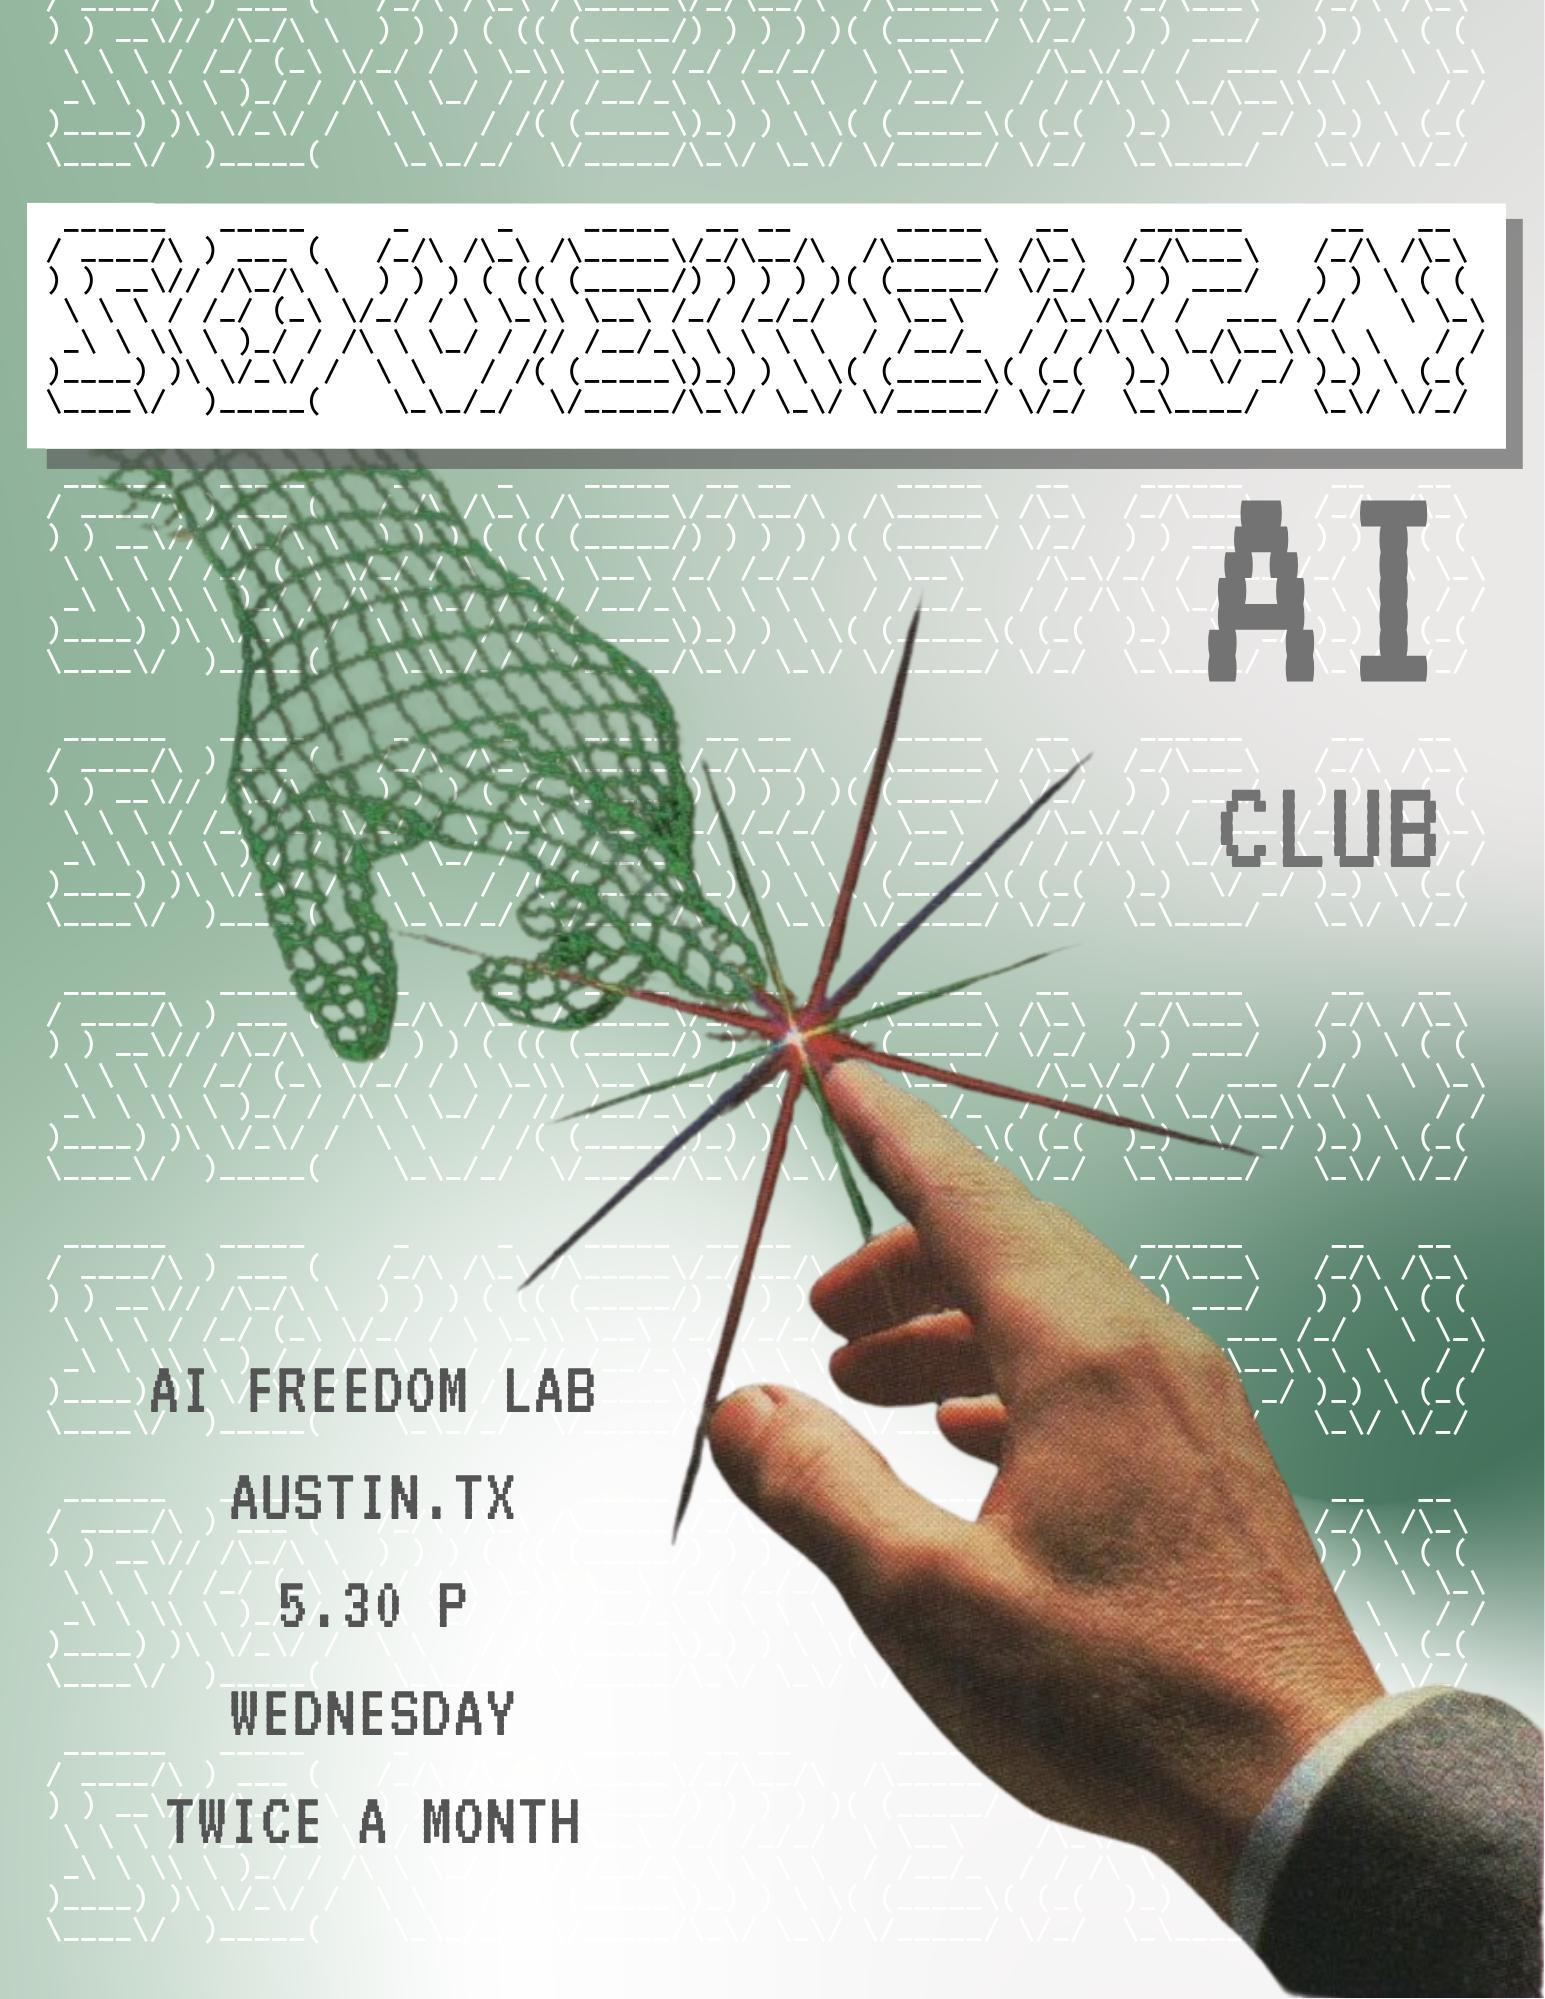
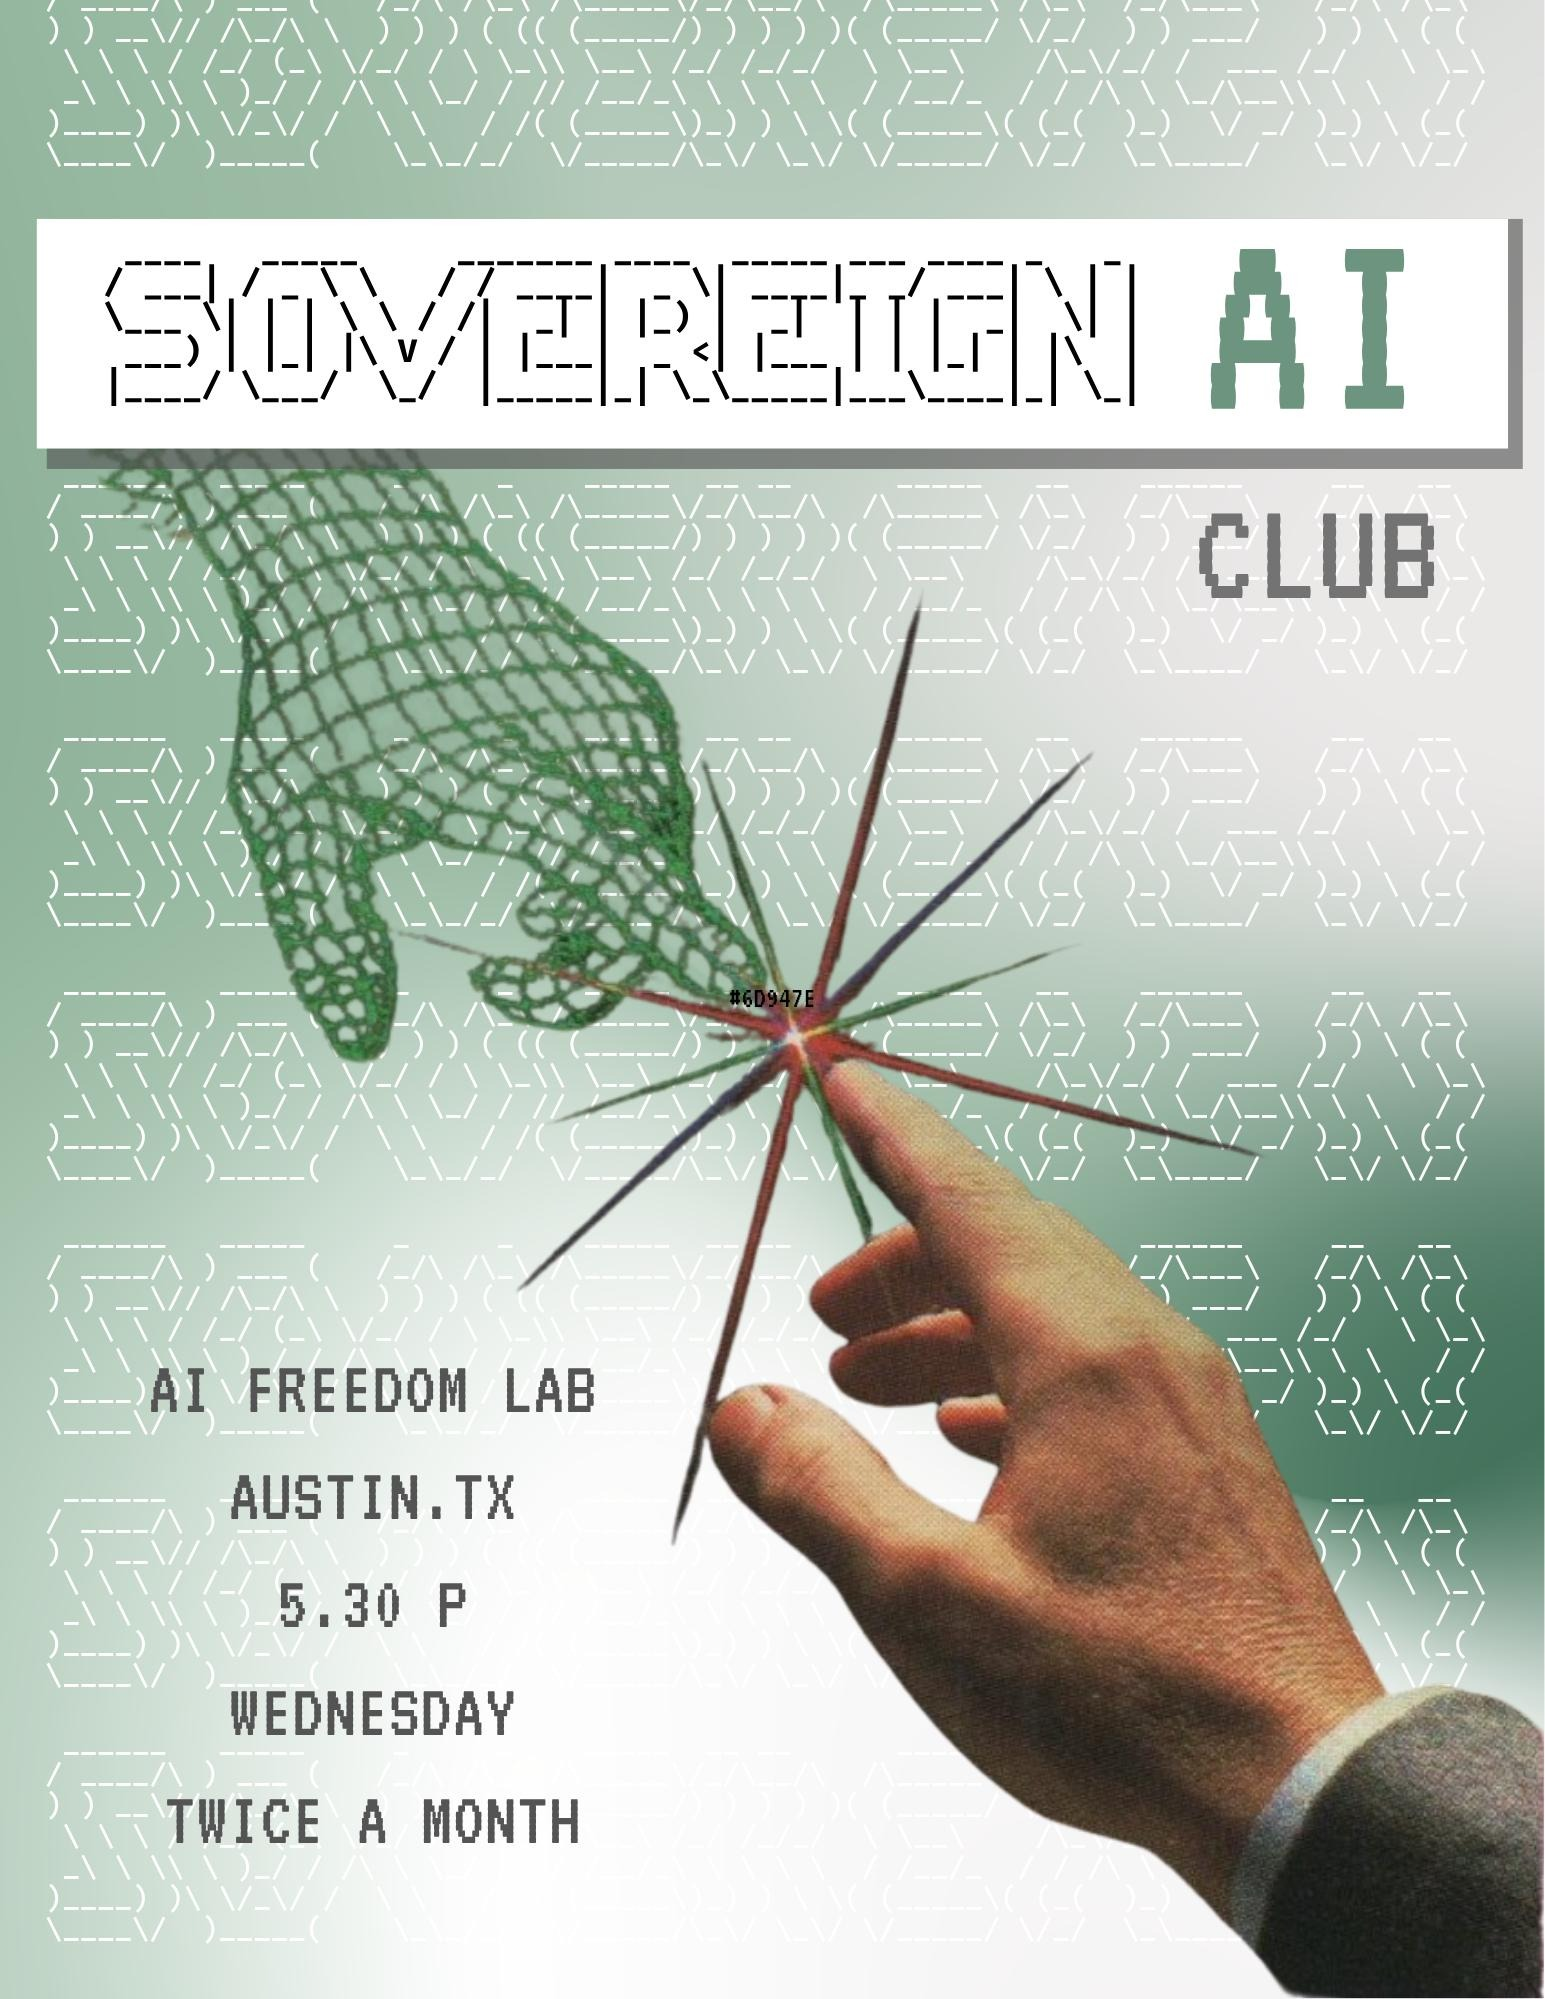
Update poster across homepage and social sharing

diff --git a/index.html b/index.html
@@ -14,8 +14,12 @@
       property="og:description"
       content="Sovereign AI Club topic archive. Meetup notes, demos, and links from Austin, TX."
     />
-    <meta property="og:image" content="https://sovereignai.club/og.jpg" />
+    <meta property="og:image" content="https://sovereignai.club/og.jpg?v=80b7d8a11070" />
     <meta property="og:image:alt" content="Sovereign AI Club poster: a wireframe hand and a human hand meet at a starburst." />
+    <meta property="og:image:width" content="1545" />
+    <meta property="og:image:height" content="1999" />
+    <meta name="twitter:image" content="https://sovereignai.club/og.jpg?v=80b7d8a11070" />
+    <meta name="twitter:image:alt" content="Sovereign AI Club poster: a wireframe hand and a human hand meet at a starburst." />
     <meta name="twitter:card" content="summary_large_image" />
     <meta name="color-scheme" content="dark" />
     <meta name="theme-color" content="#141d18" />

diff --git a/src/features/archive/ArchiveView.jsx b/src/features/archive/ArchiveView.jsx
@@ -62,7 +62,7 @@ export default function ArchiveView({ meetups, nextMeetupId, onOpenRoute }) {
             <p>A Socratic meetup about the latest AI news, with a focus on local and sovereign AI. We examine the claims, ask questions, and discuss what matters across the broader AI field.</p>
           </div>
           <img
-            src="/brand/hero.jpg"
+            src="/brand/hero.jpg?v=80b7d8a11070"
             alt="A wireframe hand meets a human hand at a starburst, the Sovereign AI Club poster mark."
             width="1545"
             height="1999"

diff --git a/src/features/archive/ArchiveView.test.jsx b/src/features/archive/ArchiveView.test.jsx
@@ -8,7 +8,7 @@ describe("ArchiveView", () => {
       <ArchiveView meetups={[]} nextMeetupId={null} onOpenRoute={() => {}} />,
     );
 
-    expect(html).toContain('src="/brand/hero.jpg"');
+    expect(html).toContain('src="/brand/hero.jpg?v=80b7d8a11070"');
     expect(html).toContain("wireframe hand meets a human hand");
     expect(html).toContain('aria-label="Sovereign AI Club"');
   });

diff --git a/docs/adr/0003-sovereign-ai-club-rebrand.md b/docs/adr/0003-sovereign-ai-club-rebrand.md
@@ -9,3 +9,5 @@ Event Metadata is excluded from the rename: past Meetups keep the venue and time
 "Sovereign" is also an editorial commitment. The Sovereignty Lens becomes the club's primary lens for Discussion Fit, with the existing Open Source Lens and Privacy Lens as facets of it. It is not a Track.
 
 The Sovereign AI Club poster at `docs/brand/sovereign-ai-club-poster.jpg` is the de facto design guide for the website. Concretely: the poster's sage, wireframe green, monospace family, ASCII-art wordmark, brutalist panels with hard offset shadows, and repeating ASCII wallpaper. The site ships as a single dark theme (sage and green on charcoal) with no light-mode option: that palette still reads as the poster, and one theme keeps archive pages, wiki, and Presentation Mode on the same identity.
+
+The September 9 poster revision places “SOVEREIGN AI” on one banner. The brand reference, homepage image and social sharing image use the supplied artwork unchanged. Public image URLs include a content version so browsers and sharing services can fetch the revision.
